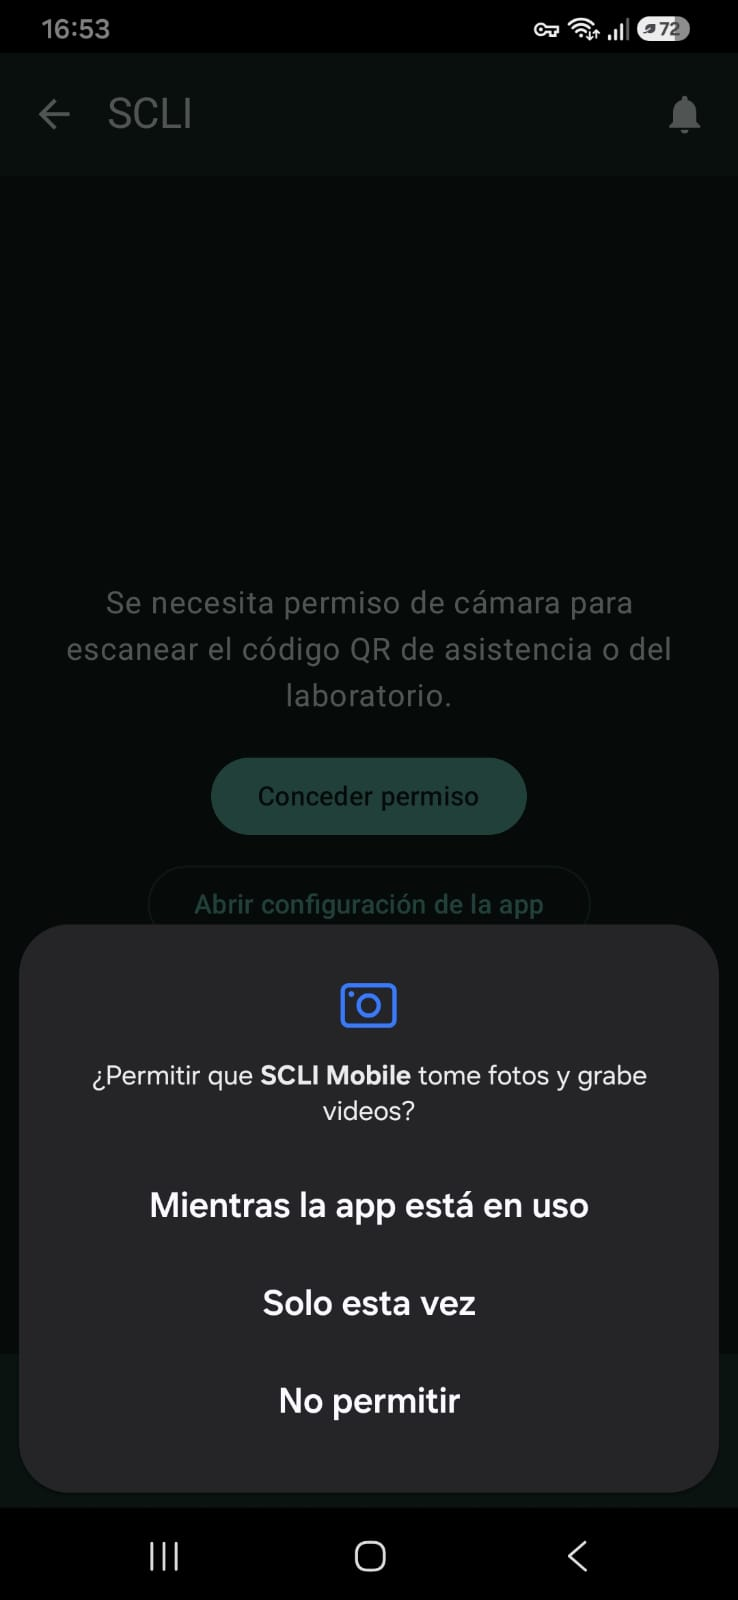
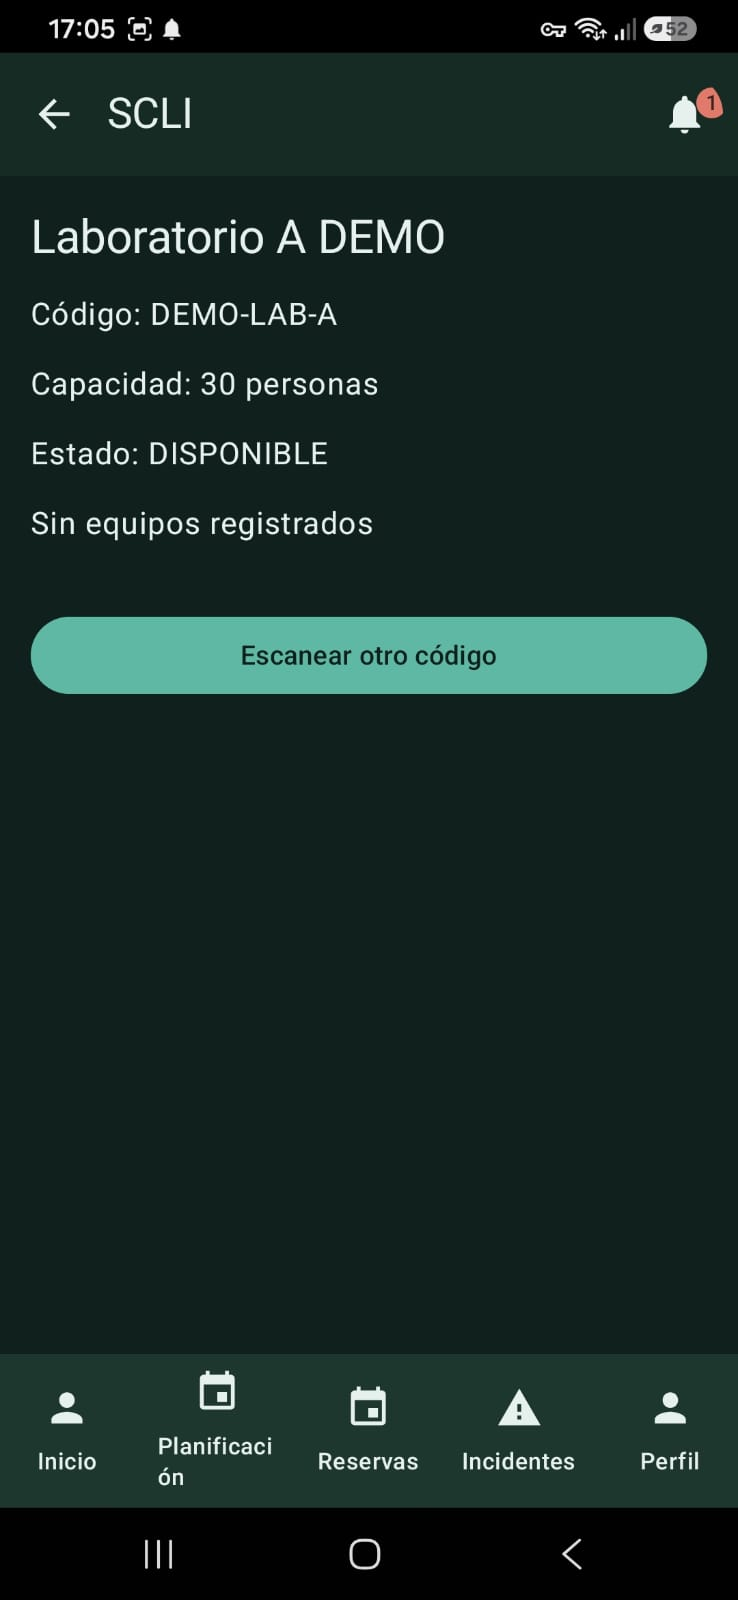
docs(e28): actualizar capturas release y evidencia QR

diff --git a/docs/main.tex b/docs/main.tex
@@ -1640,8 +1640,13 @@ exclusión de reservas solapadas bajo concurrencia, el ownership del docente,
 el ámbito operativo por piso y la coherencia transaccional de las
 cancelaciones.
 
-Las capturas de la aplicación web SCLI ejecutándose en el entorno desplegado
-presentan las vistas de dashboard, laboratorios, reservas e incidentes.
+La Figura~\ref{fig:web-release} presenta capturas existentes y versionadas
+previamente de la aplicación web SCLI en el entorno desplegado. El dashboard
+resume usuarios, laboratorios, reservas e incidentes activos; la vista de
+laboratorios muestra los laboratorios DEMO y su estado operativo; la vista de
+reservas conserva una solicitud real pendiente; y la vista de incidentes muestra
+el registro de una incidencia reportada. En conjunto, las capturas evidencian
+datos reales del despliegue usados durante la validación.
 
 \begin{figure*}[t]
   \centering
@@ -1669,12 +1674,14 @@ presentan las vistas de dashboard, laboratorios, reservas e incidentes.
   \label{fig:web-release}
 \end{figure*}
 
-Estas capturas permiten constatar visualmente que las interfaces principales de
-la aplicación web estaban disponibles durante la ejecución del sistema y
-mostraban información operativa del entorno utilizado para la evidencia.
-
-Las capturas de la aplicación Android ejecutándose en el entorno desplegado
-presentan las vistas de inicio, reservas, incidentes y acceso al lector QR.
+La Figura~\ref{fig:mobile-release} presenta la aplicación Android ejecutándose
+en el entorno desplegado, con las vistas de inicio, reservas, incidentes y el
+resultado posterior a un escaneo QR real. Esta validación móvil corresponde al
+APK oficial release \texttt{scli-mobile-v1.0.1-release.apk}, versión
+\texttt{v1.0.1}, con SHA-256
+\texttt{a6504201aa9d7aaf16299c6417ff33d8f1b42f129508ce708335b859dd454ad8}.
+La evidencia fue registrada el 2026-09-20 y se respalda en
+\texttt{docs/evidencias/qr-e2e-2026-09-20.md}.
 
 \begin{figure*}[t]
   \centering
@@ -1695,13 +1702,13 @@ presentan las vistas de inicio, reservas, incidentes y acceso al lector QR.
     \includegraphics[width=\linewidth]{mobile-qr-release.png}
   \end{minipage}
   \caption{Capturas de la interfaz móvil desplegada en la E4: inicio,
-  reservas, incidentes y acceso al lector QR.}
+  reservas, incidentes y resultado posterior a un escaneo QR real.}
   \label{fig:mobile-release}
 \end{figure*}
 
 Estas capturas permiten constatar visualmente la ejecución del cliente móvil y
 el acceso a sus principales funciones dentro del entorno utilizado para la
-validación.
+validación, incluyendo la consulta de laboratorio obtenida tras leer el QR.
 
 La evaluación de calidad mantiene una separación explícita entre evidencia
 automatizada disponible y mediciones finales pendientes. Esta distinción
